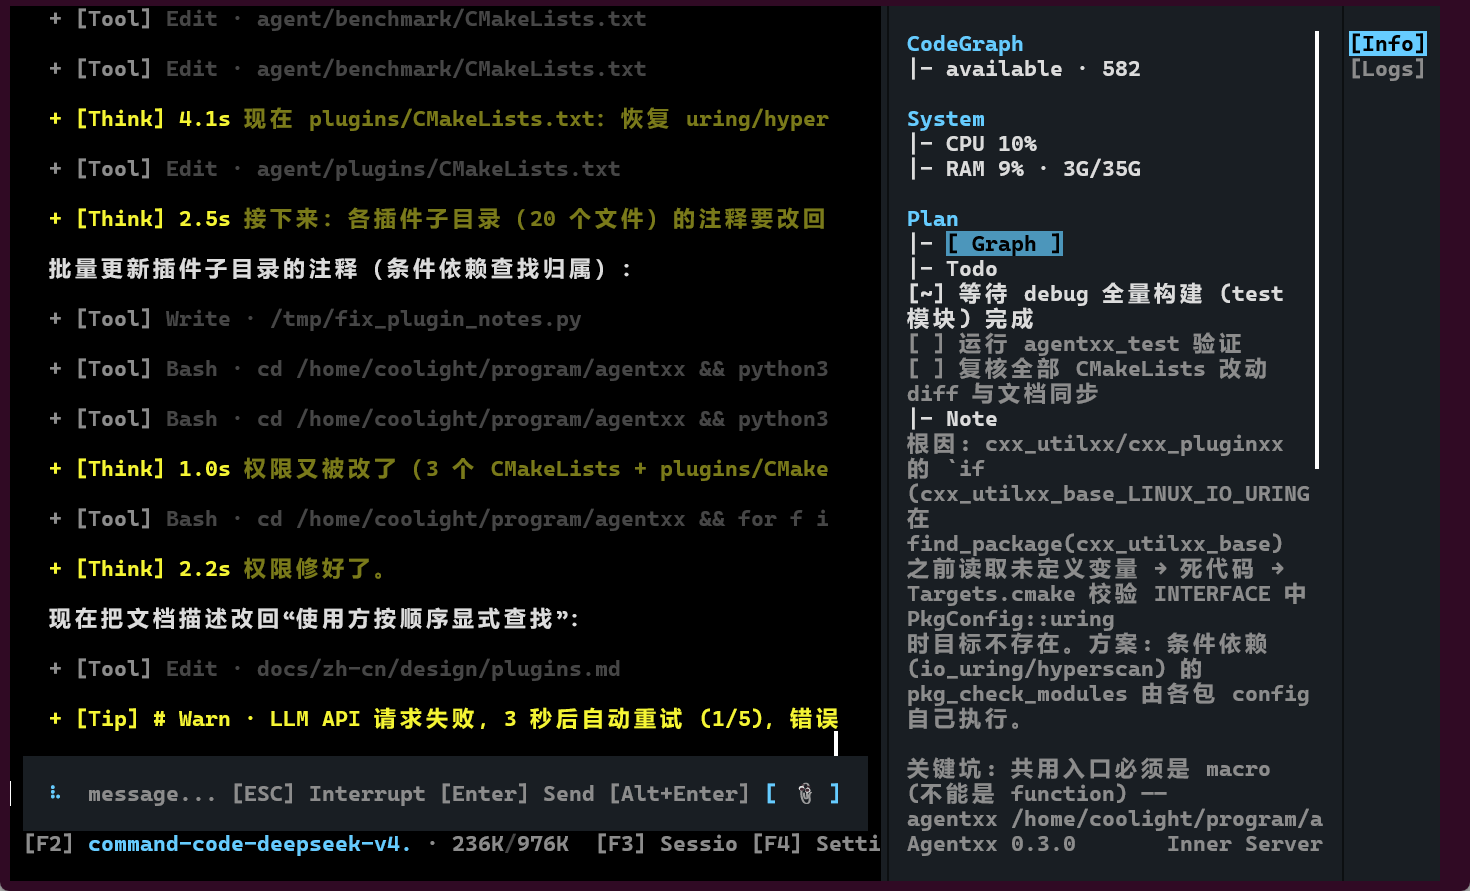
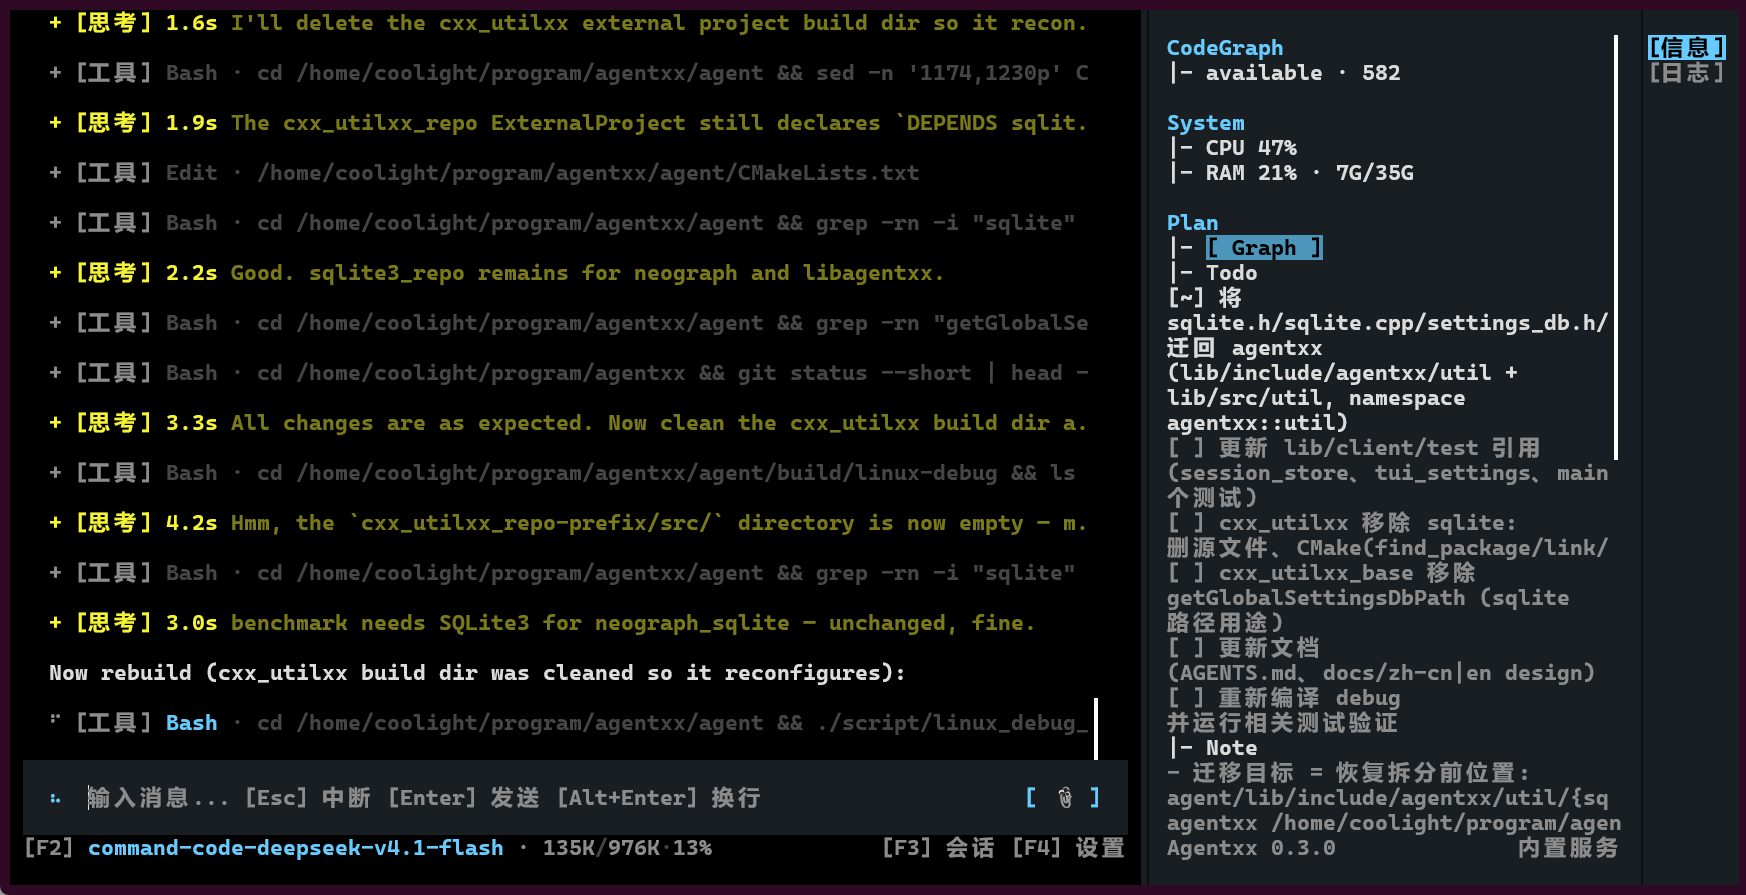
迁移 sqlite 依赖和工具函数回 agentxx

Changed region(s): [[0.0, 0.0, 1.0, 1.0]]

diff --git a/agent/test/client/test_tui_settings.cpp b/agent/test/client/test_tui_settings.cpp
@@ -6,7 +6,7 @@
 #include "agentxx-client/io/tui/framework/tui_settings.h"
 #include "agentxx/agent/io/channel_io_transport.h"
 #include "utilxx_base/env.h"
-#include "utilxx/settings_db.h"
+#include "agentxx/util/settings_db.h"
 #include "ftxui/component/event.hpp"
 #include <chrono>
 #include <filesystem>
@@ -539,12 +539,12 @@ void test_persist_to_db() {
 
     // 预先向数据库写入历史记录 (模拟上次会话已保存的语言和主题)
     {
-        utilxx::SettingsDb pre(dbPath);
+        agentxx::util::SettingsDb pre(dbPath);
         pre.setInt64("tui.lang", static_cast<int64_t>(TuiLanguage::ZhCn));
         pre.setInt64("tui.theme", static_cast<int64_t>(TUISettings::kThemeLight));
     }
 
-    auto db = std::make_shared<utilxx::SettingsDb>(dbPath);
+    auto db = std::make_shared<agentxx::util::SettingsDb>(dbPath);
     settings.attachDb(db);
 
     // 校验 attachDb 成功从数据库恢复已存设置
@@ -558,7 +558,7 @@ void test_persist_to_db() {
     settings.setTailThinkingMode(TailThinkingMode::SingleLine);
     settings.setLanguage(TuiLanguage::EnUs);
     {
-        auto fresh = utilxx::SettingsDb(dbPath);
+        auto fresh = agentxx::util::SettingsDb(dbPath);
         XX_TEST_EXPECT_EQ(fresh.getInt64("tui.theme", -1), int64_t{TUISettings::kThemeLight});
         XX_TEST_EXPECT_EQ(fresh.getInt64("tui.animationLevel", -1), int64_t{1}); // Low
         XX_TEST_EXPECT_EQ(fresh.getInt64("tui.logLevel", -1), int64_t{3});       // Warn
@@ -578,7 +578,7 @@ void test_persist_to_db() {
     settings.setTailThinkingMode(TailThinkingMode::AutoExpand);
     settings.setLanguage(TuiLanguage::ZhCn);
     {
-        auto fresh = utilxx::SettingsDb(dbPath);
+        auto fresh = agentxx::util::SettingsDb(dbPath);
         XX_TEST_EXPECT_EQ(fresh.getInt64("tui.theme", -1), int64_t{TUISettings::kThemeDark});
         XX_TEST_EXPECT_EQ(fresh.getInt64("tui.animationLevel", -1), int64_t{4}); // Ultra
         XX_TEST_EXPECT_EQ(fresh.getInt64("tui.logLevel", -1), int64_t{1});       // Debug
@@ -592,7 +592,7 @@ void test_persist_to_db() {
     // 变更为 English (EnUs)
     settings.setLanguage(TuiLanguage::EnUs);
     {
-        auto fresh = utilxx::SettingsDb(dbPath);
+        auto fresh = agentxx::util::SettingsDb(dbPath);
         XX_TEST_EXPECT_EQ(
             fresh.getInt64("tui.lang", -1),
             int64_t{static_cast<int>(TuiLanguage::EnUs)}
@@ -602,7 +602,7 @@ void test_persist_to_db() {
     // 变更为自动 (Auto)
     settings.setLanguage(TuiLanguage::Auto);
     {
-        auto fresh = utilxx::SettingsDb(dbPath);
+        auto fresh = agentxx::util::SettingsDb(dbPath);
         XX_TEST_EXPECT_EQ(
             fresh.getInt64("tui.lang", -1),
             int64_t{static_cast<int>(TuiLanguage::Auto)}

diff --git a/agent/lib/src/util/settings_db.cpp b/agent/lib/src/util/settings_db.cpp
@@ -1,13 +1,14 @@
-#include "utilxx/settings_db.h"
+#include "agentxx/util/settings_db.h"
 
-#include "utilxx_base/exception.h"
+#include "agentxx/agent/config_static.h"
+#include "agentxx/util/exception.h"
 #include "utilxx_base/log.h"
 #include "utilxx_base/string_util.h"
-#include "utilxx_base/system.h"
 #include <filesystem>
 #include <system_error>
 
-namespace utilxx {
+namespace agentxx {
+namespace util {
 
 namespace fs = std::filesystem;
 
@@ -25,7 +26,8 @@ CREATE TABLE IF NOT EXISTS setting (
 
 SettingsDb::SettingsDb(std::string dbPath) :
     dbPath_(
-        dbPath.empty() ? utilxx_base::getGlobalSettingsDbPath("") : std::move(dbPath)
+        dbPath.empty() ? agentxx::agent::AgentConfigStatic::getGlobalSettingsDbPath("")
+                       : std::move(dbPath)
     ) {}
 
 bool SettingsDb::ensureOpen() {
@@ -40,7 +42,7 @@ bool SettingsDb::ensureOpen() {
         XX_LOGE("SettingsDb: create dir {} failed: {}", dir.string(), ec.message());
         return false;
     }
-    return utilxx_base::catchError<bool>(
+    return agentxx::util::catchError<bool>(
         [&]() -> bool {
             db_.open(dbPath_);
             db_.exec(kSettingsSchema);
@@ -58,7 +60,7 @@ std::optional<std::string> SettingsDb::get(std::string_view key) {
     if (!ensureOpen()) {
         return std::nullopt;
     }
-    return utilxx_base::catchError<std::optional<std::string>>(
+    return agentxx::util::catchError<std::optional<std::string>>(
         [&]() -> std::optional<std::string> {
             auto stmt = db_.prepare("SELECT value FROM setting WHERE key = ?");
             stmt.bindText(1, key);
@@ -79,7 +81,7 @@ bool SettingsDb::set(std::string_view key, std::string_view value) {
     if (!ensureOpen()) {
         return false;
     }
-    return utilxx_base::catchError<bool>(
+    return agentxx::util::catchError<bool>(
         [&]() -> bool {
             // INSERT OR REPLACE 语义 (主键冲突时覆盖)
             auto stmt = db_.prepare("INSERT INTO setting(key, value) VALUES(?, ?) "
@@ -124,4 +126,5 @@ bool SettingsDb::setBool(std::string_view key, bool value) {
     return set(key, value ? "1" : "0");
 }
 
-} // namespace utilxx
+} // namespace util
+} // namespace agentxx

diff --git a/agent/lib/src/agent/session_store.cpp b/agent/lib/src/agent/session_store.cpp
@@ -267,7 +267,7 @@ void SessionStore::evictLruDbs() {
     }
 }
 
-void SessionStore::ensureSchema(utilxx::SqliteDb& sessionDb) {
+void SessionStore::ensureSchema(agentxx::util::SqliteDb& sessionDb) {
     sessionDb.exec(kSessionSchema);
     ensureViewMessageMsgIdColumn(sessionDb);
 }
@@ -276,7 +276,7 @@ void SessionStore::ensureSchema(utilxx::SqliteDb& sessionDb) {
 /// - 新库: CREATE TABLE 已含该列, 此处只补索引
 /// - 老库 (无该列): ALTER 增加列 → 从 json 回填 → 建索引; 已有数据不受影响
 ///   (回填只补 msg_id, 不触碰 json 内容)
-void SessionStore::ensureViewMessageMsgIdColumn(utilxx::SqliteDb& sessionDb) {
+void SessionStore::ensureViewMessageMsgIdColumn(agentxx::util::SqliteDb& sessionDb) {
     bool hasMsgId = false;
     {
         auto stmt = sessionDb.prepare("PRAGMA table_info(view_message)");
@@ -420,7 +420,7 @@ static int64_t fileTimeToUnixMs(fs::file_time_type tp) {
 }
 
 /// 目录最近写入时刻启发式 (unix 毫秒): max(session.db, session.db-wal) 的修改时间。
-/// SQLite 为 WAL 模式 (见 [sqlite.h](/agent/third_party/cxx_utilxx/include/utilxx/sqlite.h)),
+/// SQLite 为 WAL 模式 (见 [sqlite.h](/agent/lib/include/agentxx/util/sqlite.h)),
 /// 最近提交可能仍在 -wal 文件中未合并回主库, 仅 stat 主库会低估活动时间;
 /// 取两者最大值近似最近写入时刻。
 /// - 两个文件都不存在/不可读时返回 0 (排序时自然落在最后)
@@ -445,7 +445,7 @@ static int64_t sessionDirActivityHintMs(const fs::path& dir) {
 static bool readSessionDirMeta(const fs::path& dir, SessionInfo& info) {
     return agentxx::util::catchError<bool>(
         [&]() -> bool {
-            utilxx::SqliteDb db;
+            agentxx::util::SqliteDb db;
             db.open((dir / "session.db").string());
             auto stmt = db.prepare("SELECT key, value FROM meta");
             while (stmt.step()) {

diff --git a/agent/test/core/test_settings_db.cpp b/agent/test/core/test_settings_db.cpp
@@ -1,7 +1,7 @@
 #include "agentxx-test/core/test_settings_db.h"
 
 #include "agentxx/agent/config_static.h"
-#include "utilxx/settings_db.h"
+#include "agentxx/util/settings_db.h"
 #include <chrono>
 #include <filesystem>
 #include <fmt/format.h>
@@ -41,7 +41,7 @@ std::string makeTempRoot() {
 // ---------------------------------------------------------------------------
 
 static TestResult testKvRoundtrip() {
-    using utilxx::SettingsDb;
+    using agentxx::util::SettingsDb;
 
     auto root = makeTempRoot();
     auto path = (fs::path(root) / "global.db").string();
@@ -99,7 +99,7 @@ static TestResult testKvRoundtrip() {
 }
 
 static TestResult testTypedAccess() {
-    using utilxx::SettingsDb;
+    using agentxx::util::SettingsDb;
 
     auto root = makeTempRoot();
     auto path = (fs::path(root) / "global.db").string();
@@ -138,7 +138,7 @@ static TestResult testTypedAccess() {
 static TestResult testDefaultPath() {
     // 默认路径: {defaultDataDir}/sqlite/global.db
     using agentxx::agent::AgentConfigStatic;
-    using utilxx::SettingsDb;
+    using agentxx::util::SettingsDb;
 
     auto db   = std::make_shared<SettingsDb>();
     auto path = fs::path(db->dbPath()).lexically_normal().string();

diff --git a/agent/test/core/test_session_persistence.cpp b/agent/test/core/test_session_persistence.cpp
@@ -7,9 +7,9 @@
 #include "agentxx/agent/session_store.h"
 #include "agentxx/middlewares/interrupt_presets.h"
 #include "agentxx/middlewares/middleware.h"
+#include "agentxx/util/sqlite.h"
 #include "utilxx_base/json.h"
 #include "utilxx_base/log.h"
-#include "utilxx/sqlite.h"
 #include "utilxx_base/string_util.h"
 #include <asio/co_spawn.hpp>
 #include <asio/detached.hpp>
@@ -1137,7 +1137,7 @@ static void testPersistenceResilience() {
         );
         {
             auto dir = fs::path(root) / SessionStore::sanitizeSessionId("r_dirty");
-            utilxx::SqliteDb db;
+            agentxx::util::SqliteDb db;
             db.open((dir / "session.db").string());
             db.exec("INSERT INTO view_message(json) VALUES ('{not valid json')");
             db.exec("DELETE FROM llm_context");
@@ -1292,7 +1292,7 @@ static TestResult testStoreConnectionLruEviction() {
 // ---------------------------------------------------------------------------
 static TestResult testViewMessageMsgIdMigration() {
     using agentxx::agent::SessionStore;
-    using utilxx::SqliteDb;
+    using agentxx::util::SqliteDb;
     using V = agentxx::agent::ViewMessage;
 
     auto root = makeTempRoot();

diff --git a/agent/third_party/cxx_utilxx_base/include/utilxx_base/system.h b/agent/third_party/cxx_utilxx_base/include/utilxx_base/system.h
@@ -3,8 +3,9 @@
 /// 运行环境探测 (操作系统名称 / WSL / PowerShell / 文件异步 I/O / 默认数据目录)
 ///
 /// 由原 `agentxx/util/util.h` 的系统探测部分拆分而来, 不依赖图引擎与宿主:
-/// 路径相关的三个函数 (userHomeDir / defaultDataDir / getGlobalSettingsDbPath)
-/// 说明平台惯例的数据目录布局, 宿主可自行选择其他目录并以显式路径使用。
+/// 路径相关的两个函数 (userHomeDir / defaultDataDir) 说明用户主目录与默认数据
+/// 目录的取法, 宿主可自行选择其他目录并以显式路径使用 (数据库等存储路径约定
+/// 由宿主自行定义, 本库不涉及)。
 
 #include <string>
 #include <string_view>
@@ -76,9 +77,5 @@ void resetAsyncFileIoSupported();
 
 /// 默认数据根目录: ~/.agentxx/ (取不到用户主目录时回退系统临时目录下的同名目录)
 [[nodiscard]] std::string defaultDataDir();
-
-/// 全局设置数据库默认路径: {dataDir}/sqlite/global.db
-/// - dataDir 为空时使用 [defaultDataDir]
-[[nodiscard]] std::string getGlobalSettingsDbPath(std::string_view dataDir = "");
 
 } // namespace utilxx_base

diff --git a/agent/client/include/agentxx-client/io/tui/framework/tui_settings.h b/agent/client/include/agentxx-client/io/tui/framework/tui_settings.h
@@ -1,7 +1,7 @@
 #pragma once
 
 #include "utilxx_base/log.h"
-#include "utilxx/settings_db.h"
+#include "agentxx/util/settings_db.h"
 #include <array>
 #include <atomic>
 #include <memory>
@@ -149,7 +149,7 @@ public:
     /// 绑定全局设置数据库并加载已存设置 (启动时调用一次)
     /// - 重复调用以首次为准; db 为空时忽略
     /// - 从库中恢复: 主题 / 动画等级 / 日志等级 / 末尾思考模式 (键: tui.*)
-    inline void attachDb(std::shared_ptr<utilxx::SettingsDb> db) noexcept {
+    inline void attachDb(std::shared_ptr<agentxx::util::SettingsDb> db) noexcept {
         if (db_ || !db) {
             return;
         }
@@ -405,7 +405,7 @@ private:
     /// 自动模式下解析出的生效语言 (始终为已支持的具体语言: ZhCn 或 EnUs)
     std::atomic<int> autoResolvedLanguage_{static_cast<int>(TuiLanguage::ZhCn)};
     /// 全局设置数据库 (空 = 未持久化, 设置仅存内存)
-    std::shared_ptr<utilxx::SettingsDb> db_;
+    std::shared_ptr<agentxx::util::SettingsDb> db_;
 };
 
 } // namespace agentxx::client

diff --git a/agent/lib/include/agentxx/agent/session_store.h b/agent/lib/include/agentxx/agent/session_store.h
@@ -1,8 +1,8 @@
 #pragma once
 
 #include "agentxx/agent/conversation_types.h"
+#include "agentxx/util/sqlite.h"
 #include "utilxx_base/json.h"
-#include "utilxx/sqlite.h"
 #include <map>
 #include <memory>
 #include <mutex>
@@ -133,7 +133,7 @@ public:
 private:
 
     struct SessionDbs {
-        utilxx::SqliteDb sessionDb;
+        agentxx::util::SqliteDb sessionDb;
     };
 
     /// 连接缓存条目 (含最近使用序号, 供 LRU 淘汰)
@@ -162,10 +162,10 @@ private:
     bool sessionDataDirExists(std::string_view sessionId) const;
 
     /// 建表 (幂等, 单库包含 view_message/llm_context/meta/store)
-    static void ensureSchema(utilxx::SqliteDb& sessionDb);
+    static void ensureSchema(agentxx::util::SqliteDb& sessionDb);
 
     /// 迁移 view_message 的 msg_id 列与索引 (幂等; 老库 ALTER + 回填)
-    static void ensureViewMessageMsgIdColumn(utilxx::SqliteDb& sessionDb);
+    static void ensureViewMessageMsgIdColumn(agentxx::util::SqliteDb& sessionDb);
 
     std::string rootDir_;
     std::mutex  mutex_;

diff --git a/agent/third_party/cxx_utilxx_base/src/system.cpp b/agent/third_party/cxx_utilxx_base/src/system.cpp
@@ -565,23 +565,3 @@ std::string utilxx_base::defaultDataDir() {
     auto            tmp = std::filesystem::temp_directory_path(ec);
     return (tmp / kDefaultDataDirName).string();
 }
-
-std::string utilxx_base::getGlobalSettingsDbPath(std::string_view dataDir) {
-    std::string dir;
-    if (dataDir.empty()) {
-        dir = defaultDataDir();
-    } else {
-        dir = std::string{dataDir};
-        // 相对路径按当前工作目录绝对化并词法规范化 (避免拼接出不稳定的路径)
-        if (!std::filesystem::path(dir).is_absolute()) {
-            std::error_code ec;
-            auto            abs = std::filesystem::absolute(dir, ec);
-            if (!ec) {
-                dir = abs.lexically_normal().generic_string();
-            }
-        } else {
-            dir = std::filesystem::path(dir).lexically_normal().generic_string();
-        }
-    }
-    return (std::filesystem::path(dir) / "sqlite" / "global.db").string();
-}

diff --git a/agent/lib/include/agentxx/util/sqlite.h b/agent/lib/include/agentxx/util/sqlite.h
@@ -7,7 +7,8 @@
 struct sqlite3;
 struct sqlite3_stmt;
 
-namespace utilxx {
+namespace agentxx {
+namespace util {
 
 /// 轻量 RAII sqlite3 封装
 ///
@@ -15,7 +16,7 @@ namespace utilxx {
 /// - 打开时启用 WAL 日志模式 + busy_timeout(5s) + synchronous=NORMAL,
 ///   兼顾读写并发与写性能 (单进程多连接/多线程安全)
 /// - 所有失败 (打开/执行/绑定/步进) 均抛出 std::runtime_error,
-///   调用方可用 utilxx_base::catchError 系列捕获, 消息含 sqlite3 错误文本
+///   调用方可用 agentxx::util::catchError 系列捕获, 消息含 sqlite3 错误文本
 /// - 不持有内部锁: 单连接只允许单线程同时使用; 多线程并发使用请自行加锁
 class SqliteDb {
 public:
@@ -94,4 +95,5 @@ private:
     sqlite3* db_ = nullptr;
 };
 
-} // namespace utilxx
+} // namespace util
+} // namespace agentxx

diff --git a/agent/client/main.cpp b/agent/client/main.cpp
@@ -12,7 +12,7 @@
 #include "utilxx_base/env.h"
 #include "agentxx/util/exception.h"
 #include "utilxx/http_client.h"
-#include "utilxx/settings_db.h"
+#include "agentxx/util/settings_db.h"
 #include "utilxx_base/string_util.h"
 #include "agentxx/version.h"
 #include "asio/co_spawn.hpp"
@@ -631,7 +631,7 @@ Options:
         const std::string globalDbDir = resolvedDataDir.empty()
                                             ? agentxx::agent::AgentConfigStatic::systemDataDir()
                                             : resolvedDataDir;
-        auto              settingsDb  = std::make_shared<utilxx::SettingsDb>(
+        auto              settingsDb  = std::make_shared<agentxx::util::SettingsDb>(
             agentxx::agent::AgentConfigStatic::getGlobalSettingsDbPath(globalDbDir)
         );
         TUISettings::instance().attachDb(std::move(settingsDb));

diff --git a/agent/test/include/agentxx-test/core/test_settings_db.h b/agent/test/include/agentxx-test/core/test_settings_db.h
@@ -1,12 +1,12 @@
 #pragma once
 
 #include "agentxx-test/test_framework.h"
-#include "utilxx/settings_db.h"
+#include "agentxx/util/settings_db.h"
 
 namespace agentxx {
 namespace test {
 
-/// 全局设置 SQLite 存储 (utilxx::SettingsDb) 测试:
+/// 全局设置 SQLite 存储 (agentxx::util::SettingsDb) 测试:
 /// KV 读写/覆盖、整数与布尔存取、懒创建目录、重启恢复、默认路径
 TestResult testSettingsDb();
 
